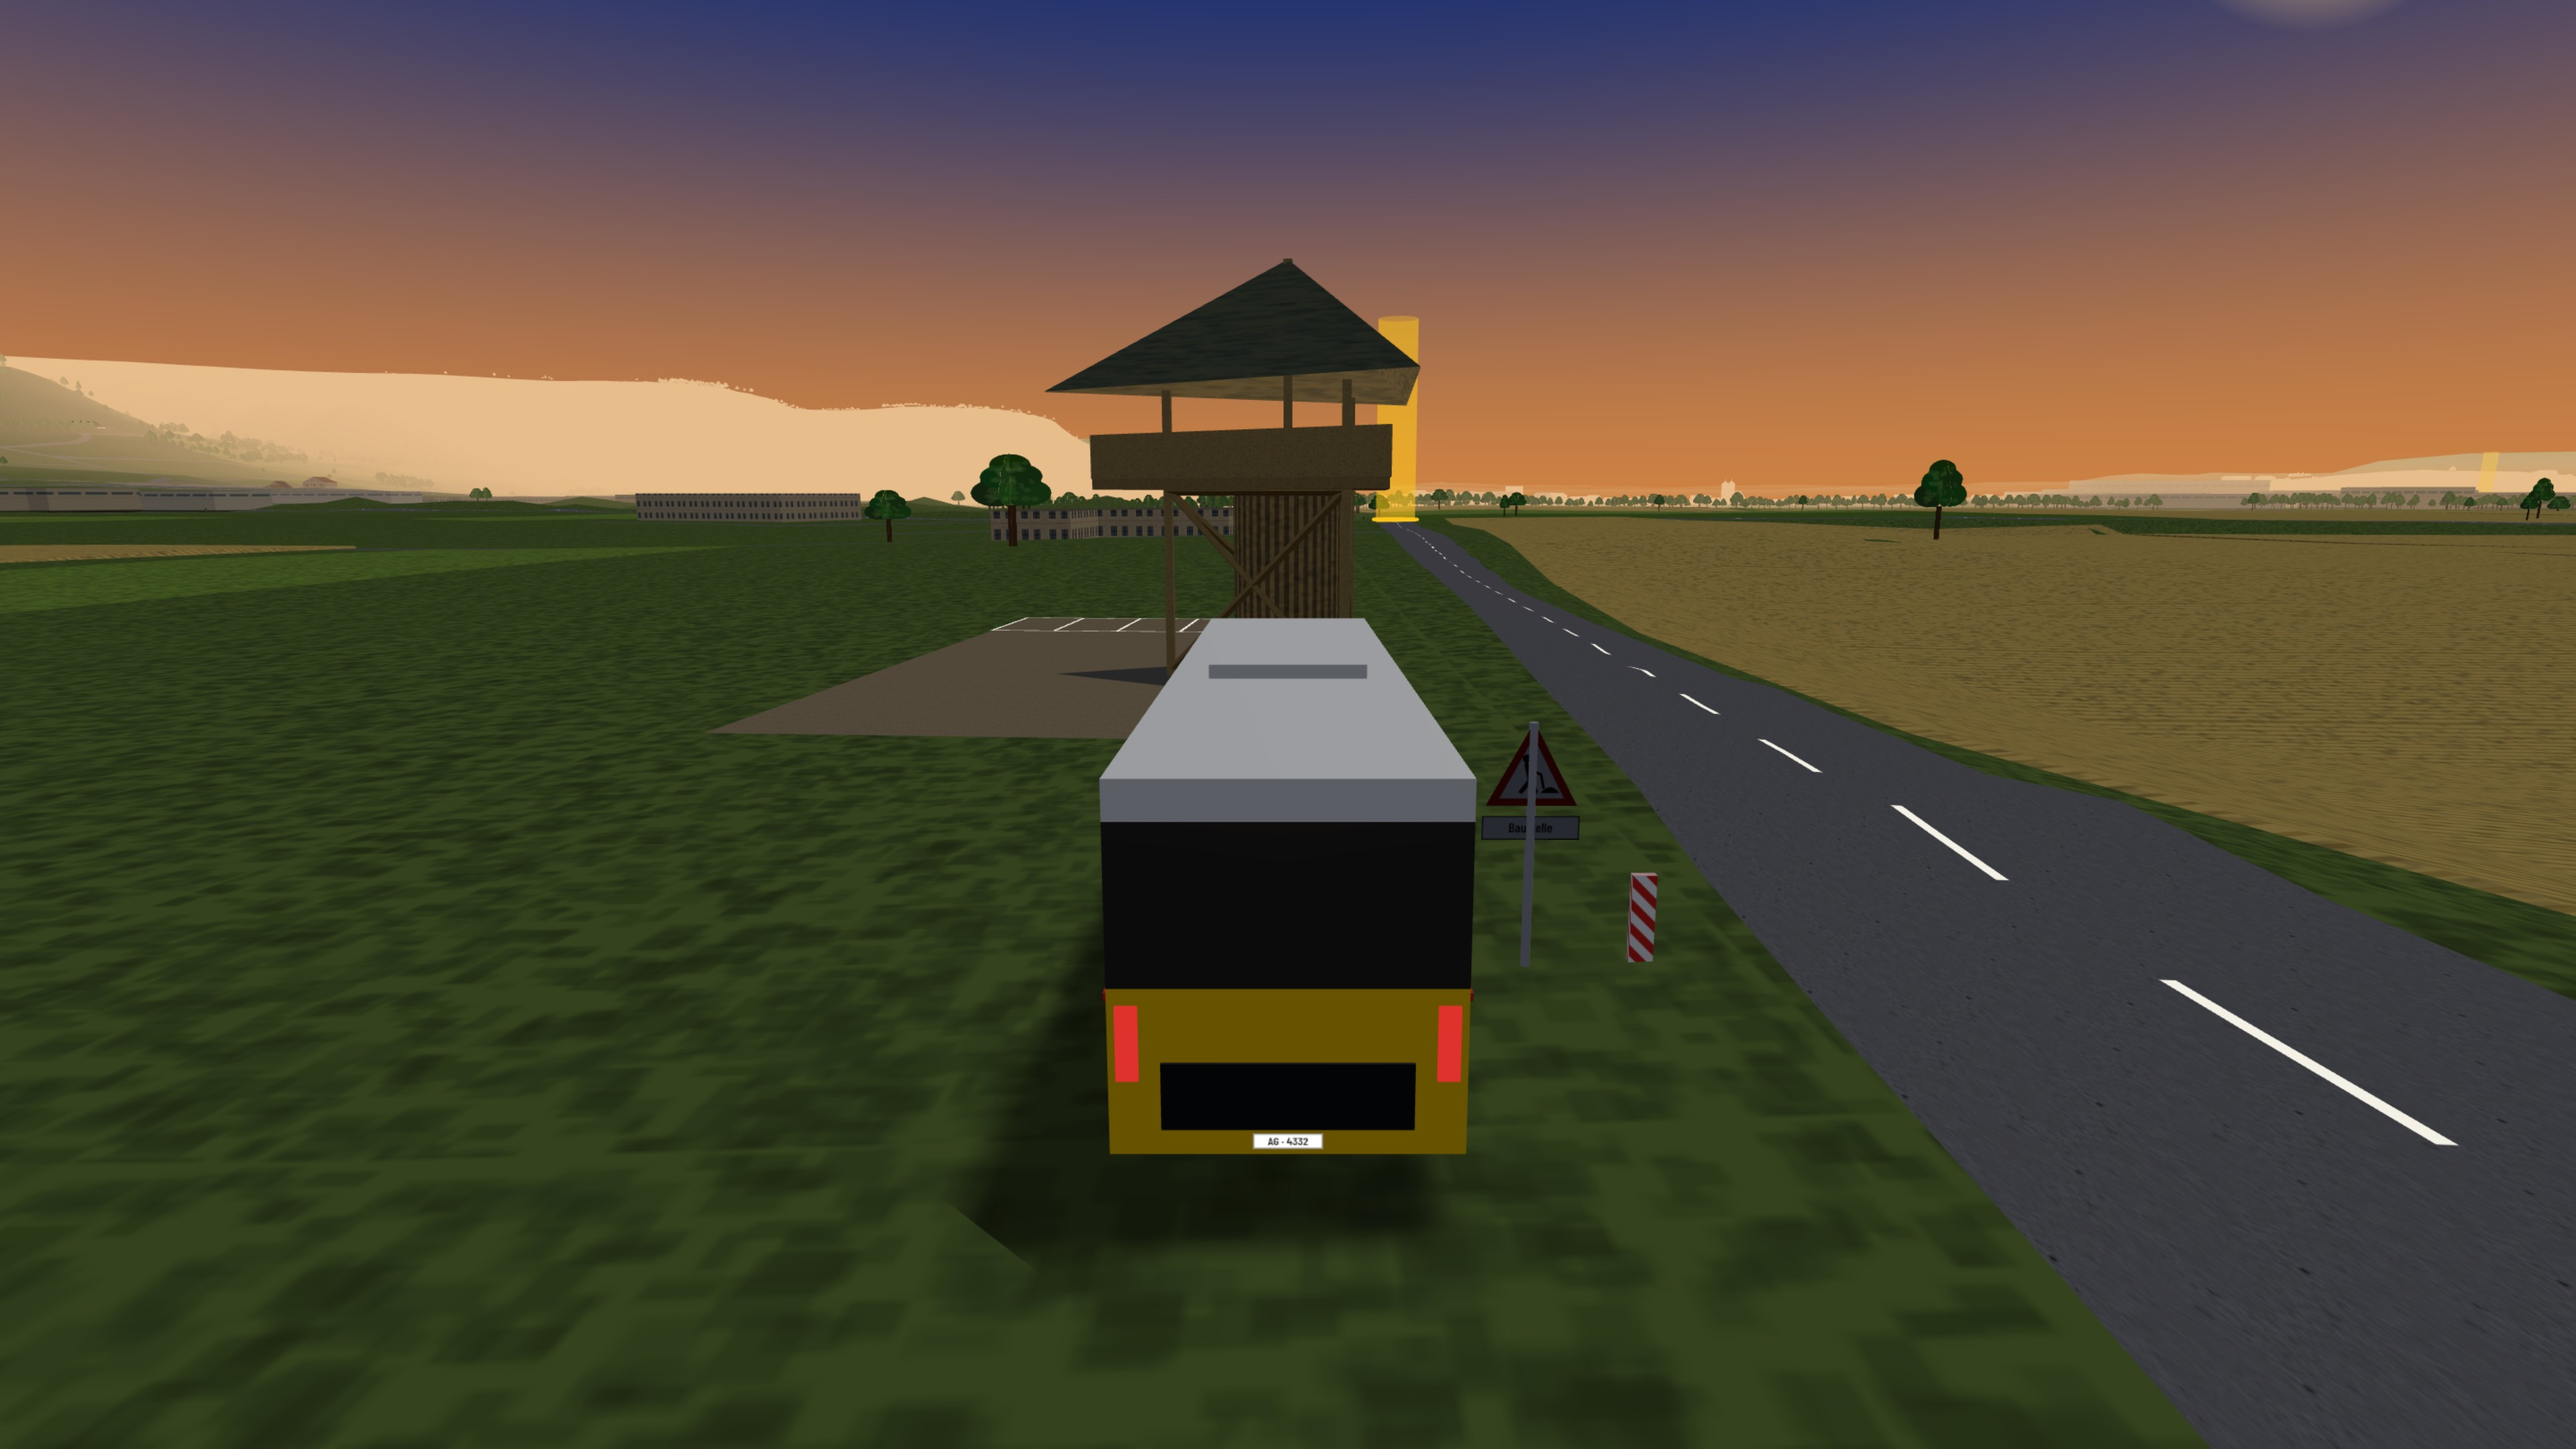
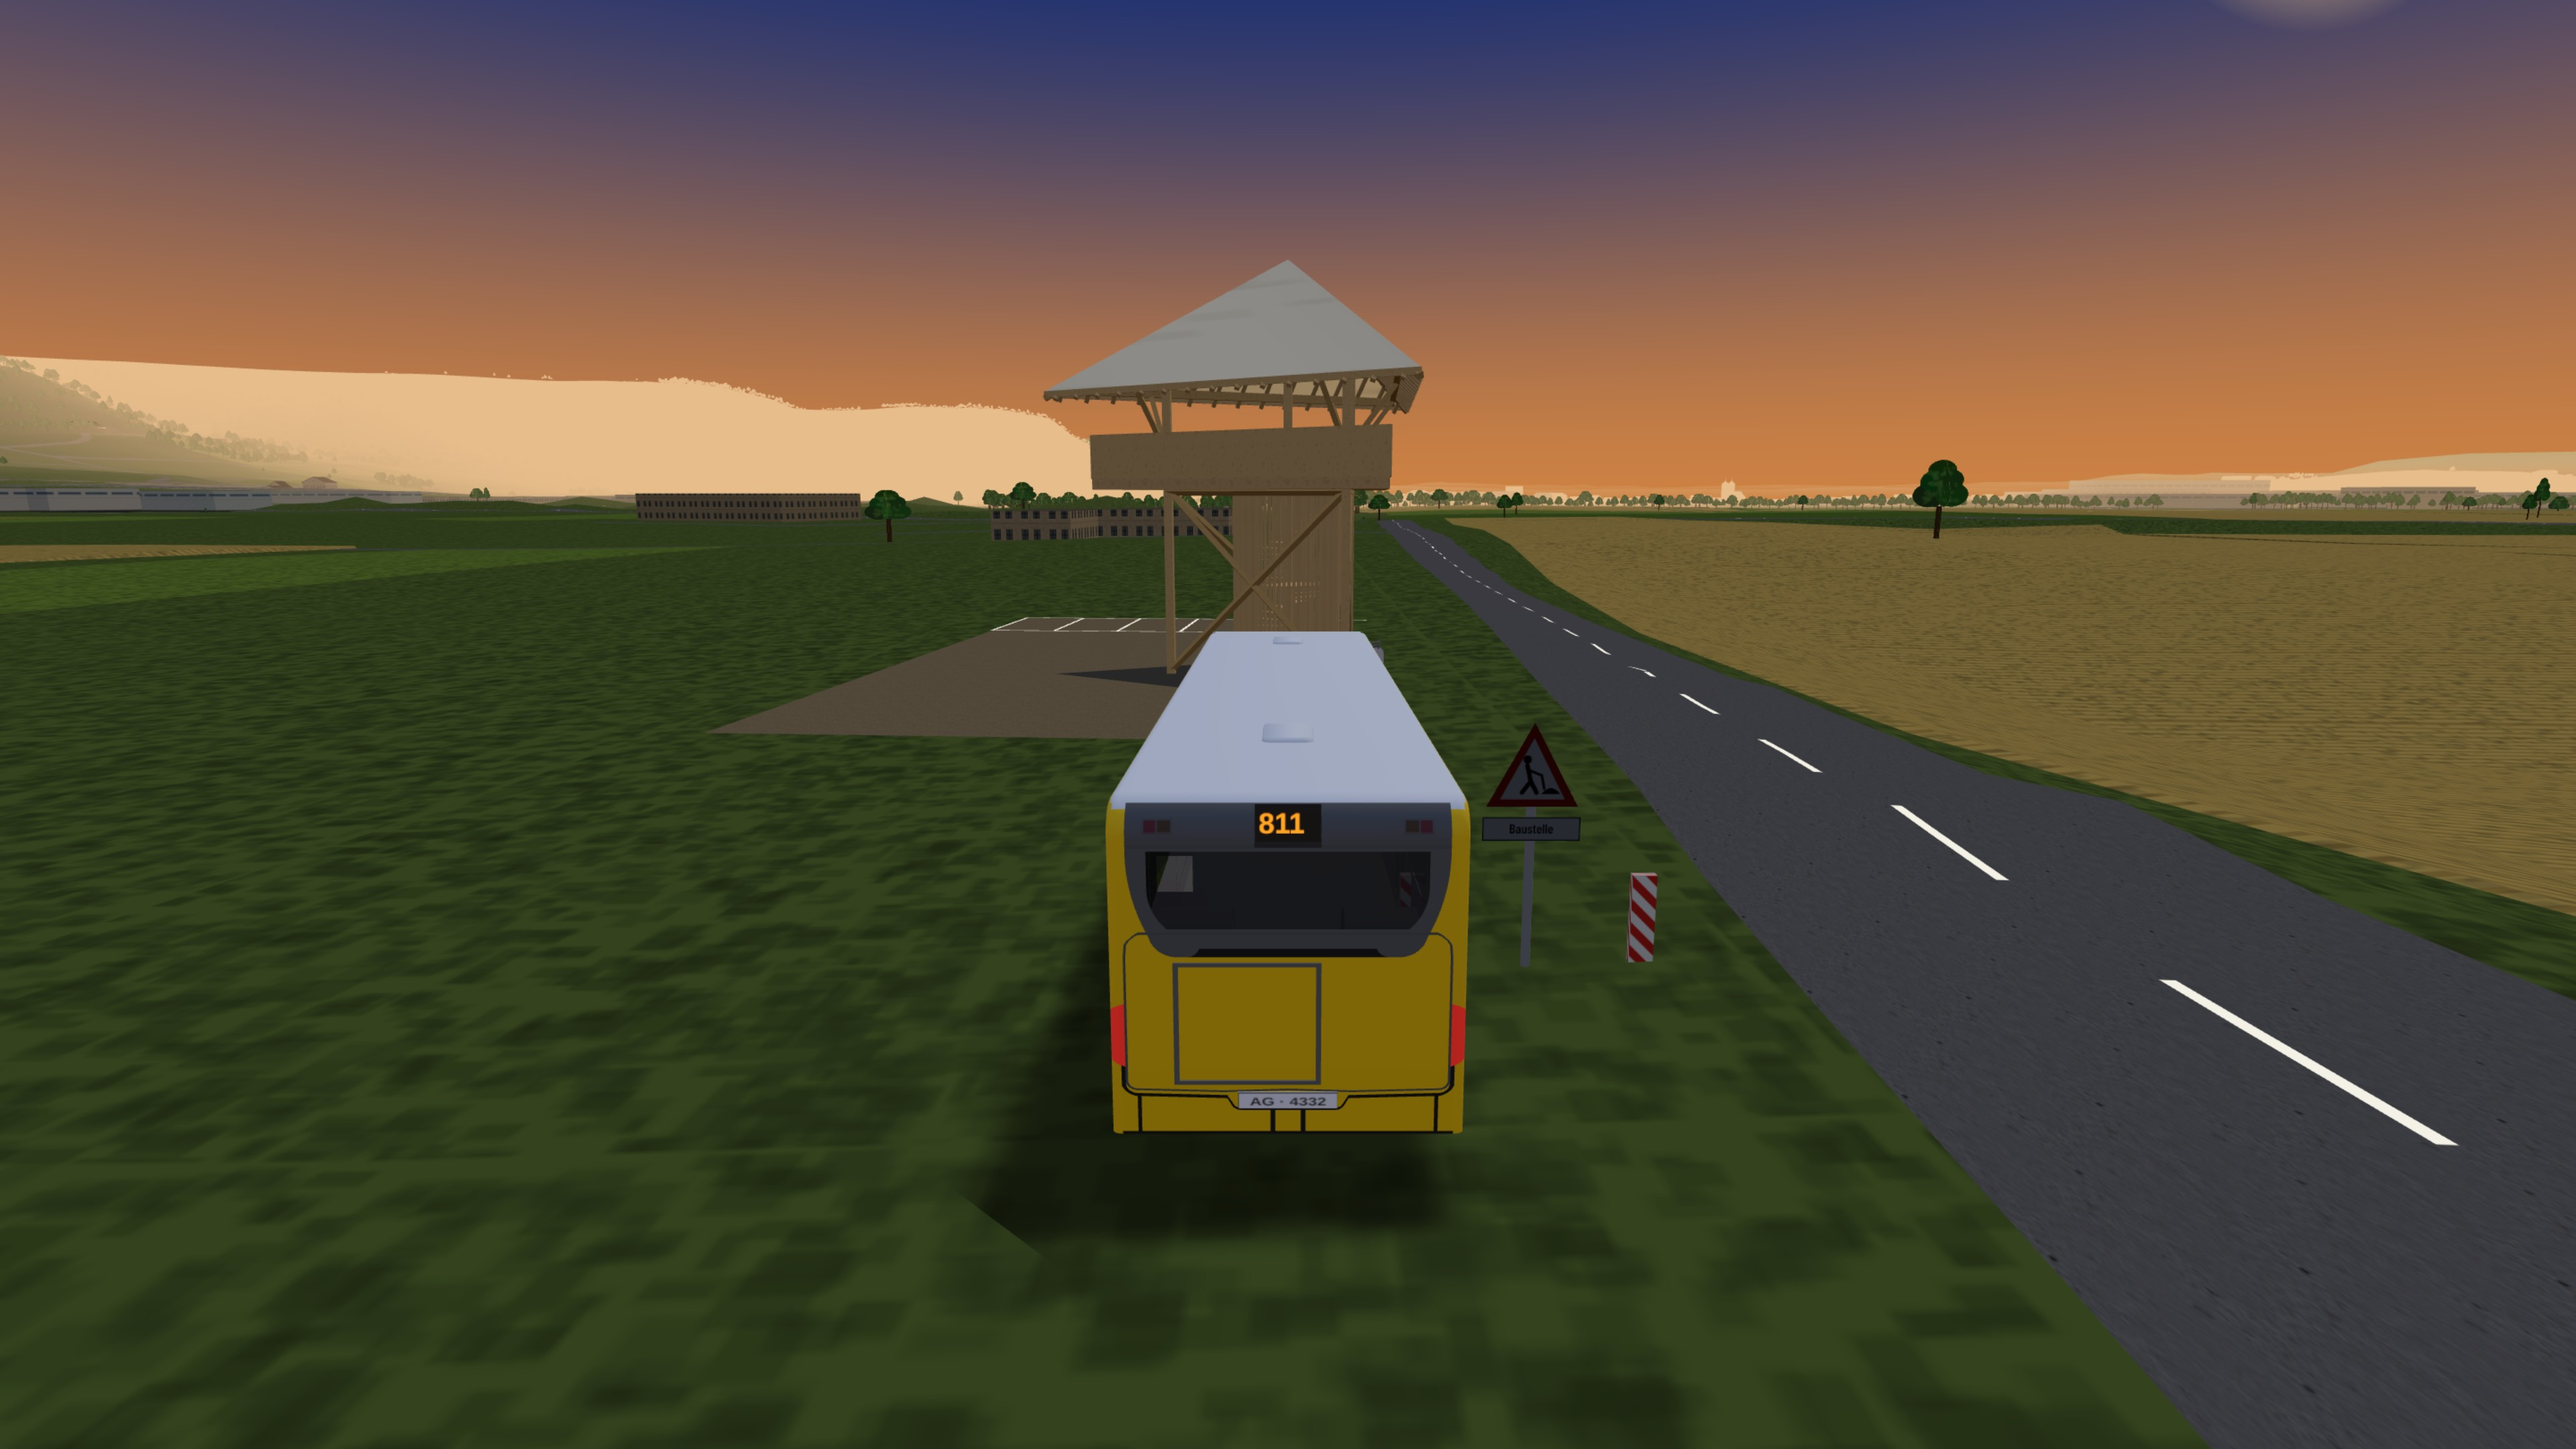
docs(gallery): retake the Plattform shots with the new tower
The gallery and the press kit still showed the old Plattform model
(before #855/#892). The hand-taken plattform-1/2/3 images are replaced
by two new motifs in shots.json (from above, view from the deck), so
every Plattform image can be retaken with scripts/shots.py. The
gallery limit goes from 12 to 14 motifs. Plattform motifs start in
cruise mode so no checkpoint pillar stands next to the tower.

Claude-Session: https://claude.ai/code/session_01CCZvVD3W1FFQ2k8dsQQTey

Changed region(s): [[0.375, 0.1861, 0.5938, 0.8065], [0.375, 0.8375, 0.4062, 0.8685], [0.0, 0.2481, 0.0312, 0.2792]]

diff --git a/presse/index.html b/presse/index.html
@@ -43,11 +43,10 @@ dd{margin:0}
 
 <h2>Plattform Sisslerfeld</h2>
 <div class="grid">
+<figure><a href="../docs/gallery/plattform-luftbild-3840.jpg" download><img src="../docs/gallery/plattform-luftbild-1920.jpg" alt="Plattform Sisslerfeld von oben" loading="lazy"></a><figcaption>Plattform Sisslerfeld von oben<br><a href="../docs/gallery/plattform-luftbild-3840.jpg" download>Herunterladen (3840&times;2160)</a></figcaption></figure>
 <figure><a href="../docs/gallery/plattform-auto-3840.jpg" download><img src="../docs/gallery/plattform-auto-1920.jpg" alt="Plattform Sisslerfeld mit dem Postauto" loading="lazy"></a><figcaption>Plattform Sisslerfeld mit dem Postauto<br><a href="../docs/gallery/plattform-auto-3840.jpg" download>Herunterladen (3840&times;2160)</a></figcaption></figure>
+<figure><a href="../docs/gallery/plattform-aussicht-3840.jpg" download><img src="../docs/gallery/plattform-aussicht-1920.jpg" alt="Aussicht von der Plattform Sisslerfeld zur DSM" loading="lazy"></a><figcaption>Aussicht von der Plattform Sisslerfeld zur DSM<br><a href="../docs/gallery/plattform-aussicht-3840.jpg" download>Herunterladen (3840&times;2160)</a></figcaption></figure>
 <figure><a href="../docs/gallery/plattform-dsm-3840.jpg" download><img src="../docs/gallery/plattform-dsm-1920.jpg" alt="Plattform Sisslerfeld, dahinter der DSM-Kamin" loading="lazy"></a><figcaption>Plattform Sisslerfeld, dahinter der DSM-Kamin<br><a href="../docs/gallery/plattform-dsm-3840.jpg" download>Herunterladen (3840&times;2160)</a></figcaption></figure>
-<figure><a href="../docs/gallery/plattform-3-aussicht.jpg" download><img src="../docs/gallery/plattform-3-aussicht.jpg" alt="Aussicht von der Plattform Sisslerfeld" loading="lazy"></a><figcaption>Aussicht von der Plattform Sisslerfeld<br><a href="../docs/gallery/plattform-3-aussicht.jpg" download>Herunterladen (3840&times;2160)</a></figcaption></figure>
-<figure><a href="../docs/gallery/plattform-1-luftbild.jpg" download><img src="../docs/gallery/plattform-1-luftbild.jpg" alt="Plattform Sisslerfeld von oben" loading="lazy"></a><figcaption>Plattform Sisslerfeld von oben<br><a href="../docs/gallery/plattform-1-luftbild.jpg" download>Herunterladen (2204&times;1240)</a></figcaption></figure>
-<figure><a href="../docs/gallery/plattform-2-postauto.jpg" download><img src="../docs/gallery/plattform-2-postauto.jpg" alt="Postauto vor der Plattform Sisslerfeld" loading="lazy"></a><figcaption>Postauto vor der Plattform Sisslerfeld<br><a href="../docs/gallery/plattform-2-postauto.jpg" download>Herunterladen (2100&times;1181)</a></figcaption></figure>
 </div>
 
 <h2>Weitere Bilder</h2>

diff --git a/tests/test_shots.py b/tests/test_shots.py
@@ -51,7 +51,8 @@ def test_validate_shots_checks_the_landmark_distance_and_a_distinct_heading_targ
 def test_validate_shots_needs_climb_seconds_for_the_heli_and_a_count_in_range():
     assert any("climb_s" in e for e in shots.validate_shots([shot(mode="heli")], REGIONS, LANDMARKS, min_count=1))
     assert shots.validate_shots([shot(mode="heli", climb_s=3)], REGIONS, LANDMARKS, min_count=1) == []
-    assert any("8-12" in e for e in shots.validate_shots([shot()], REGIONS, LANDMARKS))
+    assert any("8-14" in e for e in shots.validate_shots([shot()], REGIONS, LANDMARKS))
+    assert not any("8-14" in e for e in shots.validate_shots([shot(id=f"m{i}") for i in range(14)], REGIONS, LANDMARKS))
 
 
 def test_heading_points_from_at_to_look_at():

diff --git a/scripts/shots.py b/scripts/shots.py
@@ -42,7 +42,7 @@ WEATHERS = ("clear",)   # nor weather
 ENUMS = {"mode": MODES, "camera": CAMERAS, "style": STYLES, "vehicle": VEHICLES, "time": TIMES, "weather": WEATHERS, "start": STARTS}
 ID_RE = re.compile(r"[a-z0-9]+(-[a-z0-9]+)*")
 NEAR_MAX_M = 600
-COUNT_RANGE = (8, 12)
+COUNT_RANGE = (8, 14)
 
 
 def _is_point(p) -> bool:

diff --git a/README.md b/README.md
@@ -13,9 +13,9 @@ Dedicated to my daughter.
 **Plattform Sisslerfeld**
 
 <p>
-  <a href="docs/gallery/plattform-1-luftbild.jpg"><img src="docs/gallery/plattform-1-luftbild.jpg" width="32%" alt="Plattform Sisslerfeld from above"></a>
-  <a href="docs/gallery/plattform-2-postauto.jpg"><img src="docs/gallery/plattform-2-postauto.jpg" width="32%" alt="Postauto in front of the Plattform Sisslerfeld"></a>
-  <a href="docs/gallery/plattform-3-aussicht.jpg"><img src="docs/gallery/plattform-3-aussicht.jpg" width="32%" alt="View from the Plattform Sisslerfeld"></a>
+  <a href="docs/gallery/plattform-luftbild-3840.jpg"><img src="docs/gallery/plattform-luftbild-1920.jpg" width="32%" alt="Plattform Sisslerfeld from above"></a>
+  <a href="docs/gallery/plattform-auto-3840.jpg"><img src="docs/gallery/plattform-auto-1920.jpg" width="32%" alt="Postauto in front of the Plattform Sisslerfeld"></a>
+  <a href="docs/gallery/plattform-aussicht-3840.jpg"><img src="docs/gallery/plattform-aussicht-1920.jpg" width="32%" alt="View from the Plattform Sisslerfeld"></a>
 </p>
 
 **More screenshots** (curated list: [`docs/gallery/shots.json`](docs/gallery/shots.json), click a thumbnail for the 3840x2160 image)
@@ -24,6 +24,8 @@ Dedicated to my daughter.
 <p>
   <a href="docs/gallery/plattform-auto-3840.jpg"><img src="docs/gallery/plattform-auto-1920.jpg" width="32%" alt="Rhyflitzer – Map Madness: Plattform Sisslerfeld with the Postauto"></a>
   <a href="docs/gallery/plattform-dsm-3840.jpg"><img src="docs/gallery/plattform-dsm-1920.jpg" width="32%" alt="Rhyflitzer – Map Madness: Plattform Sisslerfeld, the DSM chimney behind"></a>
+  <a href="docs/gallery/plattform-luftbild-3840.jpg"><img src="docs/gallery/plattform-luftbild-1920.jpg" width="32%" alt="Rhyflitzer – Map Madness: Plattform Sisslerfeld from above"></a>
+  <a href="docs/gallery/plattform-aussicht-3840.jpg"><img src="docs/gallery/plattform-aussicht-1920.jpg" width="32%" alt="Rhyflitzer – Map Madness: View from the Plattform Sisslerfeld to DSM"></a>
   <a href="docs/gallery/holzbruecke-aussen-3840.jpg"><img src="docs/gallery/holzbruecke-aussen-1920.jpg" width="32%" alt="Rhyflitzer – Map Madness: Holzbrücke Bad Säckingen across the Rhine"></a>
   <a href="docs/gallery/holzbruecke-nah-3840.jpg"><img src="docs/gallery/holzbruecke-nah-1920.jpg" width="32%" alt="Rhyflitzer – Map Madness: Holzbrücke, close, along its length"></a>
   <a href="docs/gallery/dsm-sisseln-3840.jpg"><img src="docs/gallery/dsm-sisseln-1920.jpg" width="32%" alt="Rhyflitzer – Map Madness: DSM Sisseln and its chimney"></a>
